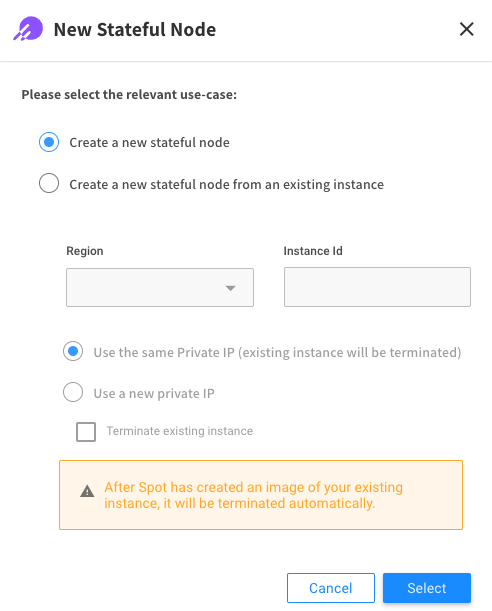
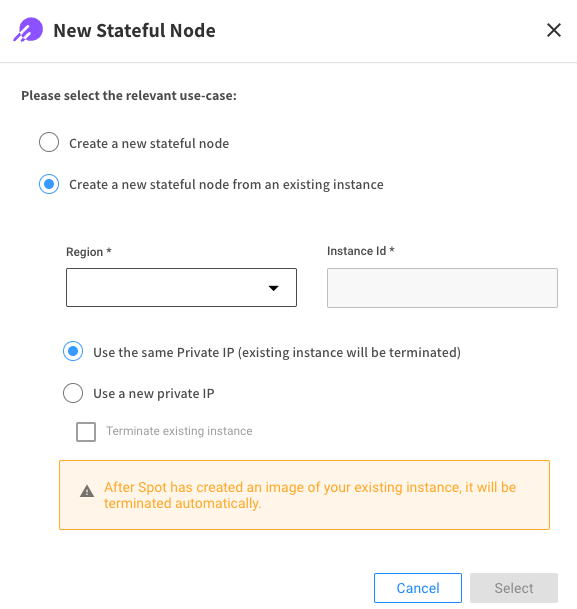
kjh

diff --git a/src/docs/managed-instance/getting-started/join-an-existing-managed-instance.md b/src/docs/managed-instance/getting-started/join-an-existing-managed-instance.md
@@ -12,18 +12,21 @@ Before you can create a stateful node, you need to do the following:
 
 ## Import your Stateful Node
 
-1. To import your stateful single node from AWS, go to the Stateful Node dashboard on the Spot Console and click New Node on the top right.
+1. To import your stateful single node from AWS, click on the left menu.
+2. In the left menu, click Elastigroup.
+3. In the left menu, click Stateful Nodes.
+3. Click New Node on the top right.
 
 <img src="/managed-instance/_media/create-new-a.png" />
 
-2. When the New Stateful Node form appears, mark the use case Create a New Stateful Node from an existing one.
+2. When the New Stateful Node form appears, mark the use-case Create a New Stateful Node from an Existing Instance.
 
 <img src="/managed-instance/_media/create-new-b.png" />
 
 3. Complete the information in the form as described below.
 
    - Region. Select the correct region from the list.
-   - Node ID. Enter the ID of the AWS node to import.
+   - Instance ID. Enter the ID of the AWS node to import.
    - Use the same Private IP. Choose this if you want the private IP in Spot to be the same as the one you used in AWS. When you choose this option, the existing node in AWS will be terminated automatically after the migration is completed.
    - Use a new Private ID. Choose this if you want the private IP in Spot to be different from the one you used in AWS. An available IP will be chosen from the subnet.
    - Terminate existing node. When you mark this option, the existing AWS node will be terminated automatically after Spot has completed creation of the imported image.
